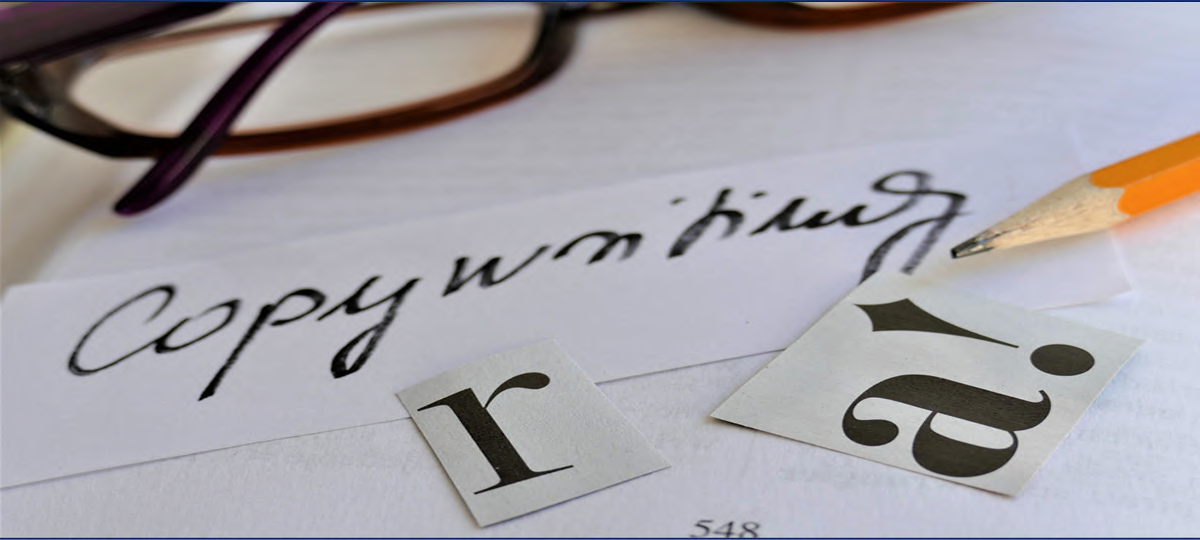
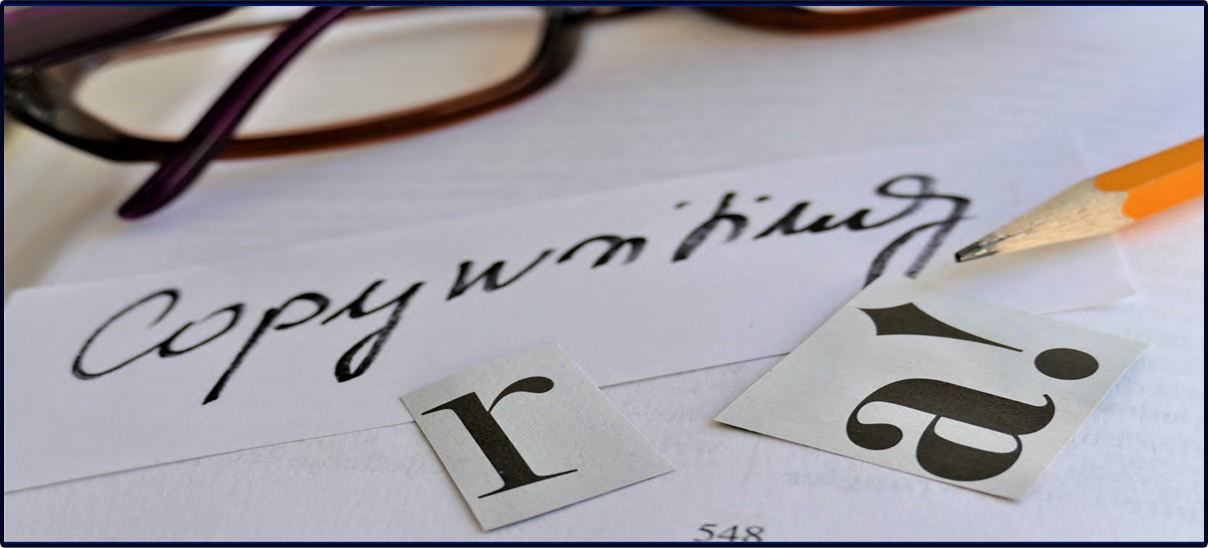
Ad-Copy img re-worked and styled

diff --git a/src/style/Web Design Services/Ad-CopyWriting/Ad-CopyWriting.css b/src/style/Web Design Services/Ad-CopyWriting/Ad-CopyWriting.css
@@ -1,6 +1,8 @@
 .ad-copy-writing img {
-  width: 100%;
-  height: 60vh;
+  padding-top: 5%;
+  width: 85%;
+  height: 70vh;
+  
 }
 
 @media (min-width: 737px) and (max-width: 980px) {

diff --git a/src/style/Web Design Services/Ad-CopyWriting/Ad-CopyWriting.scss b/src/style/Web Design Services/Ad-CopyWriting/Ad-CopyWriting.scss
@@ -2,8 +2,8 @@
 
 .ad-copy-writing {
   img {
-    width: 100%;
-    height: 60vh;
+    width: 85%;
+    height: 70vh;
 
     @include breakpoint(m) {
       height: 50vh;
